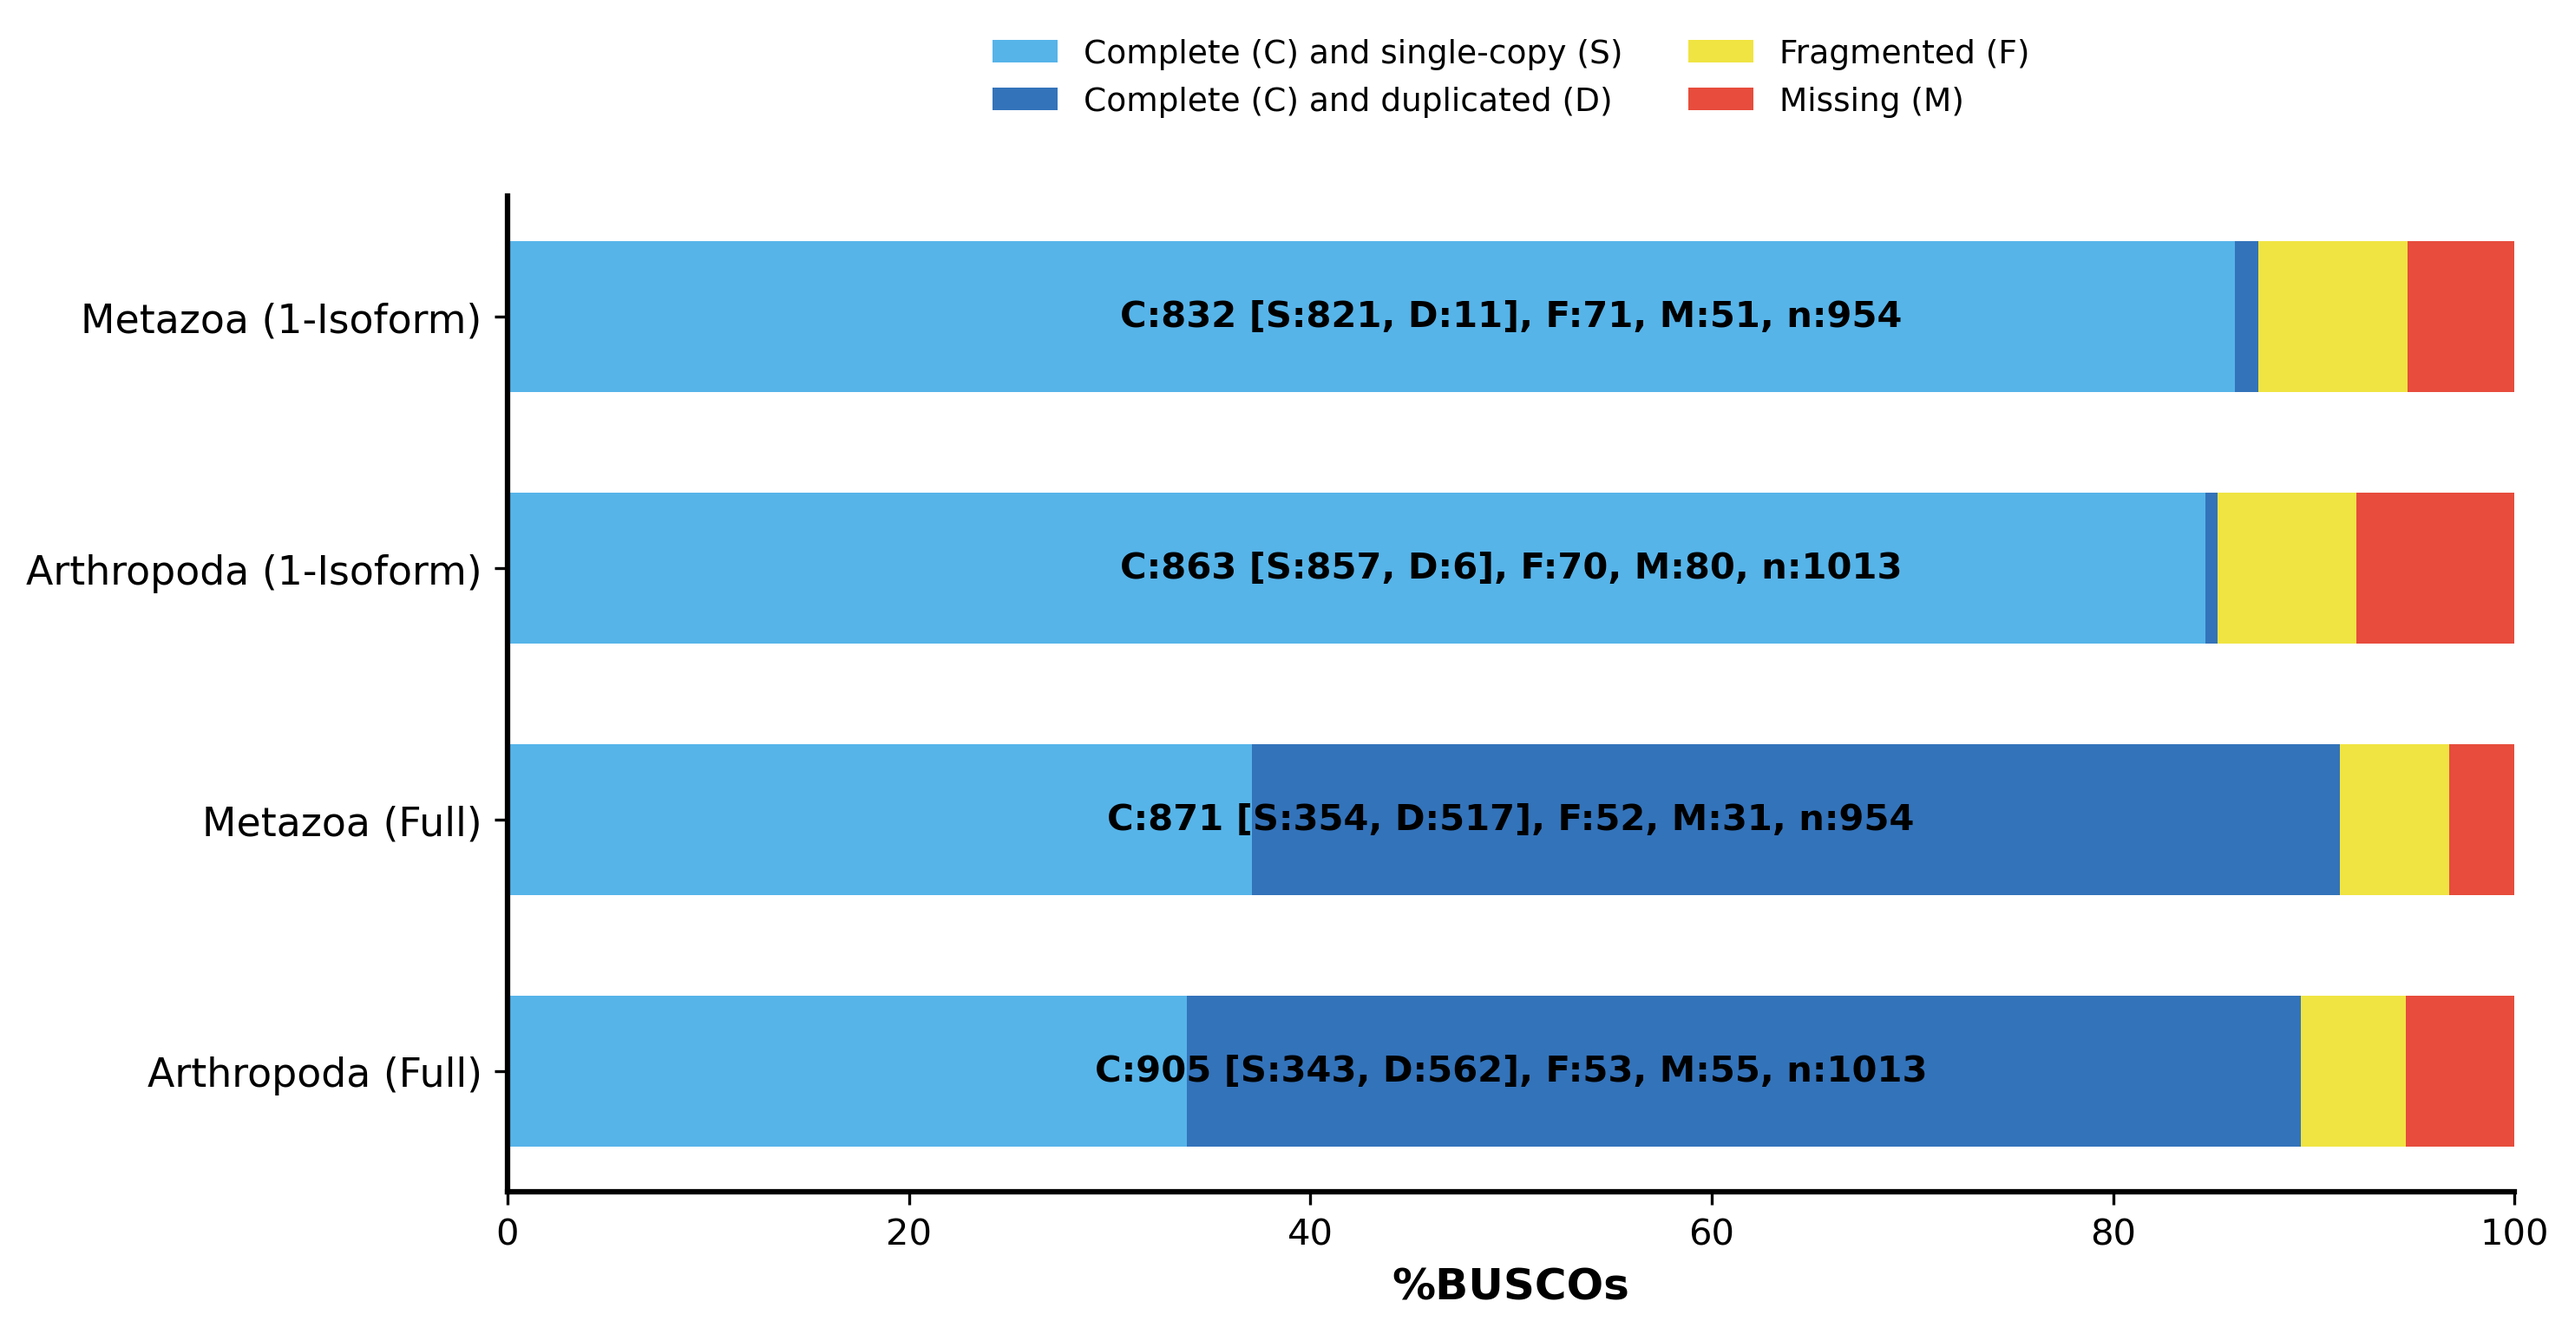
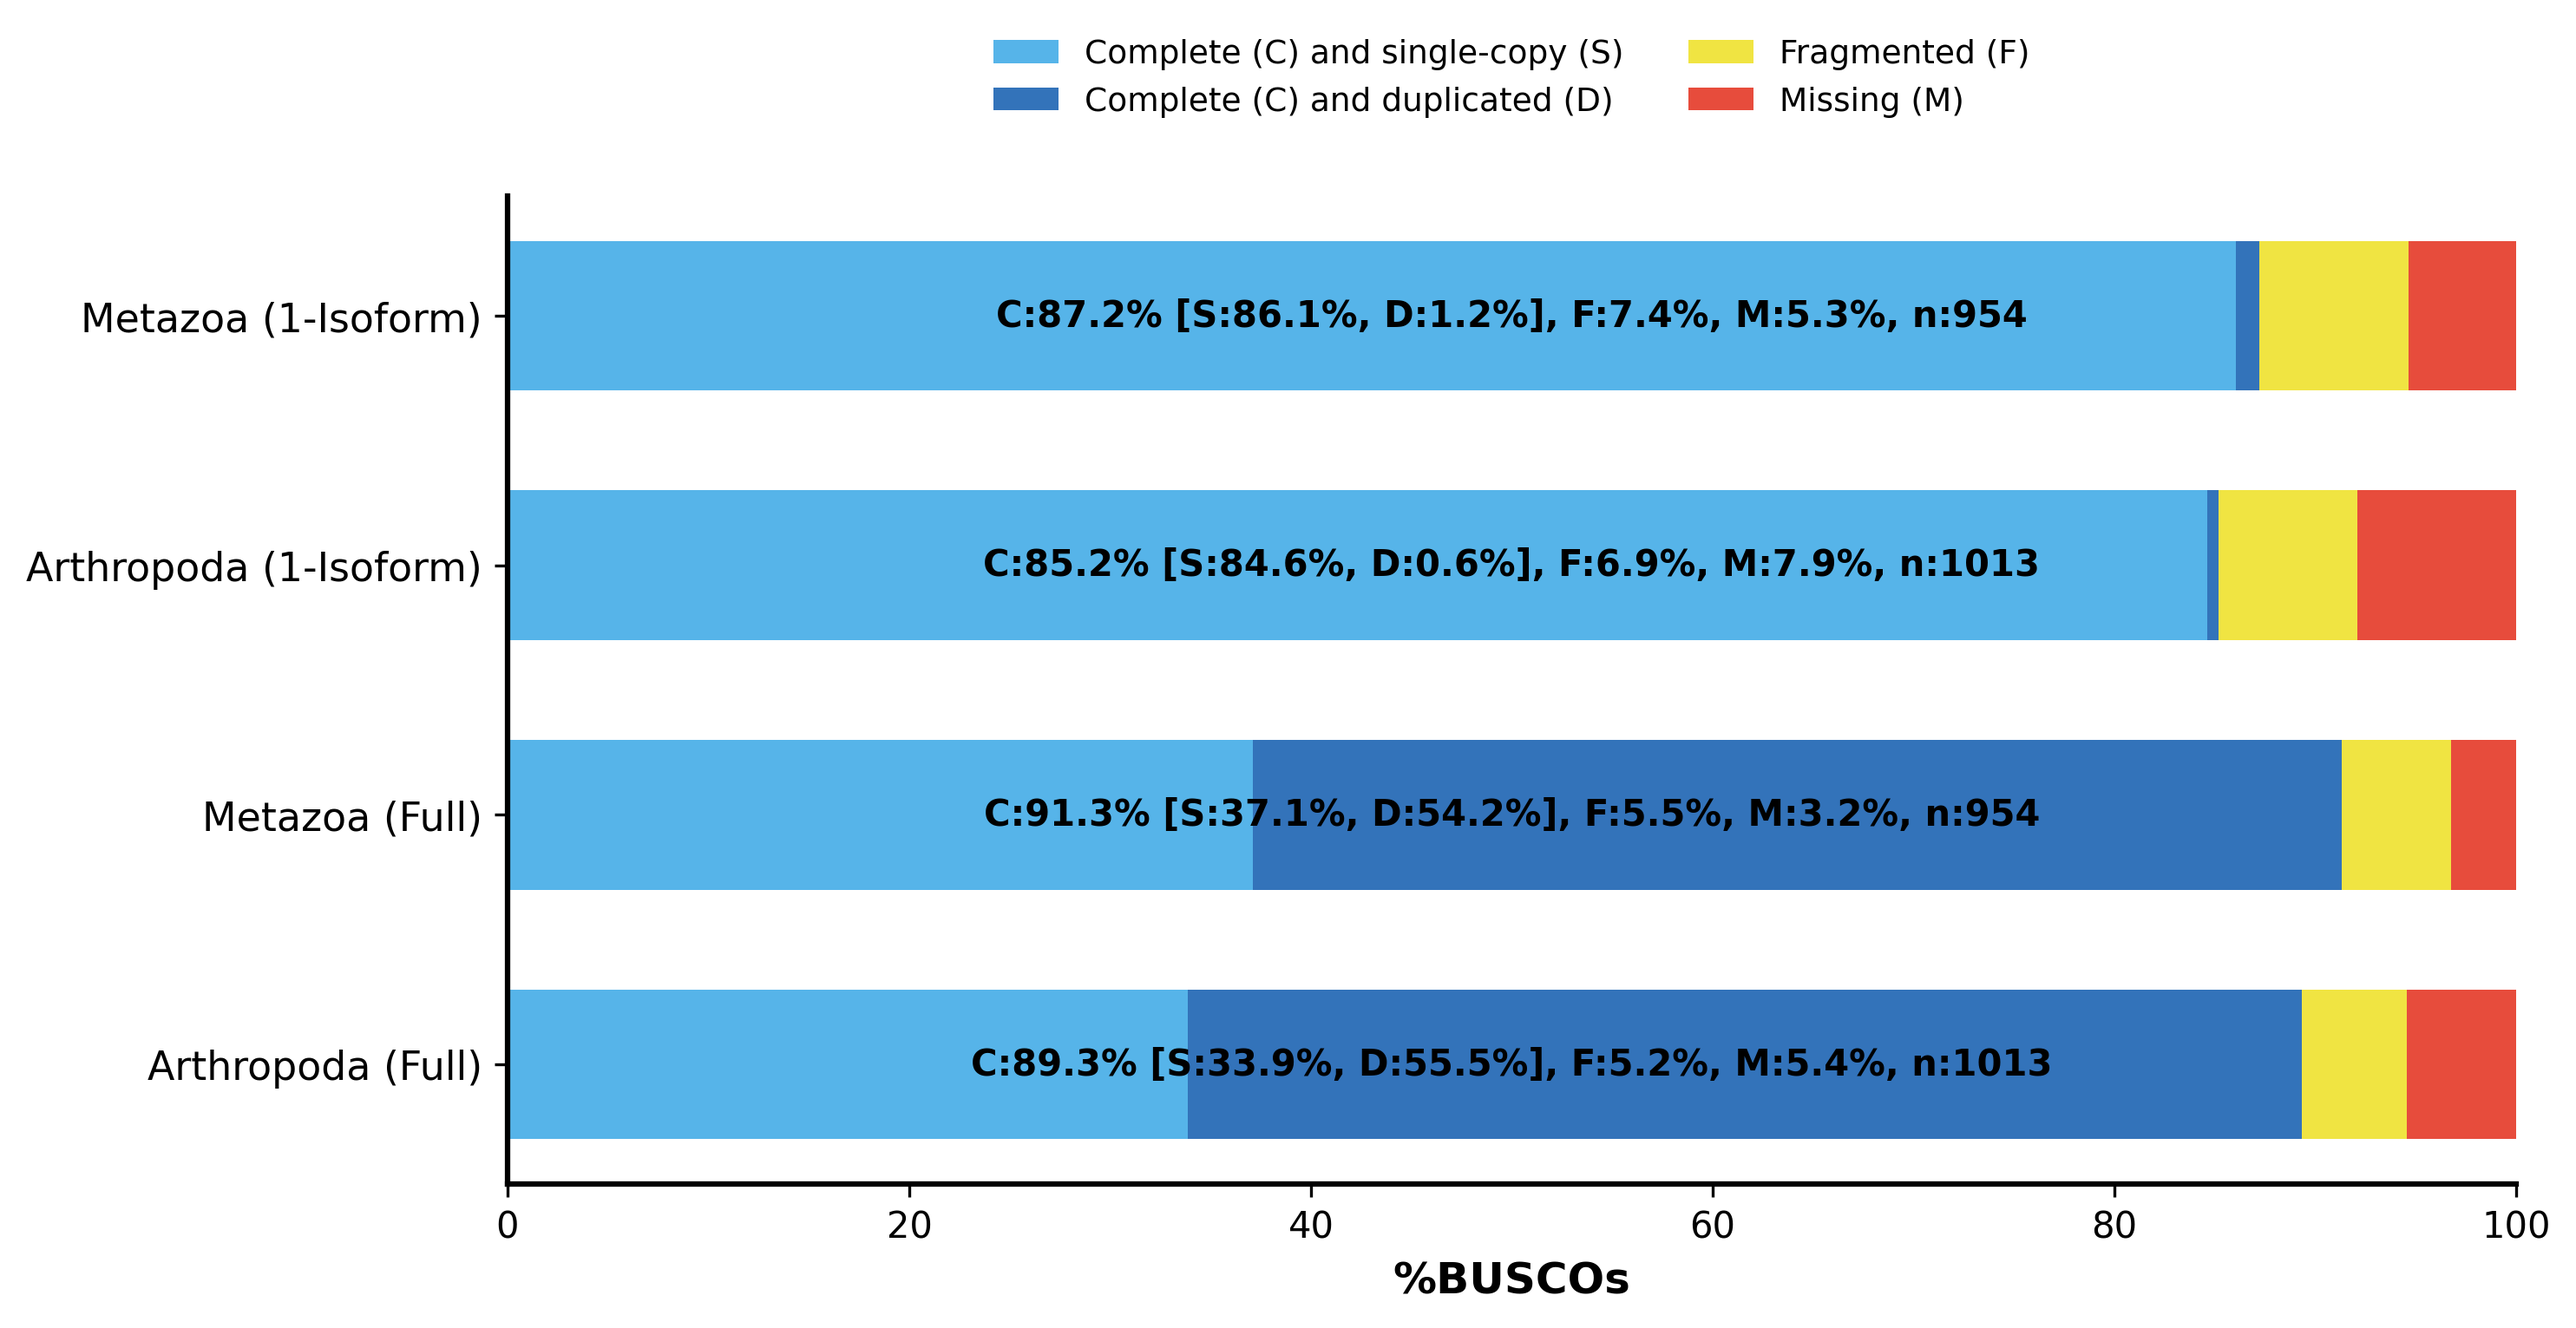
Update to BUSCO figure and results summary

diff --git a/06_busco_analysis/scripts/05_generate_plots.py b/06_busco_analysis/scripts/05_generate_plots.py
@@ -88,8 +88,10 @@ def create_busco_plot(data_list, labels, output_file, title="BUSCO Assessment"):
         ax.barh(i, data['pct_missing'], left=left, height=0.6,
                 color=COLORS['missing'], edgecolor='white', linewidth=0)
 
-        # Create the label string: C:750 [S:715, D:35], F:9, M:241, n:1000
-        label_text = f"C:{data['complete']} [S:{data['single']}, D:{data['duplicated']}], F:{data['fragmented']}, M:{data['missing']}, n:{data['total']}"
+        # Create the label string with percentages: C:89.3% [S:86.4%, D:2.9%], F:0.9%, M:9.8%, n:1013
+        pct_complete = data['pct_single'] + data['pct_duplicated']
+        label_text = (f"C:{pct_complete:.1f}% [S:{data['pct_single']:.1f}%, D:{data['pct_duplicated']:.1f}%], "
+                      f"F:{data['pct_fragmented']:.1f}%, M:{data['pct_missing']:.1f}%, n:{data['total']}")
         
         # Add text label centered in the bar area
         # We place it at x=50% (middle of plot)
